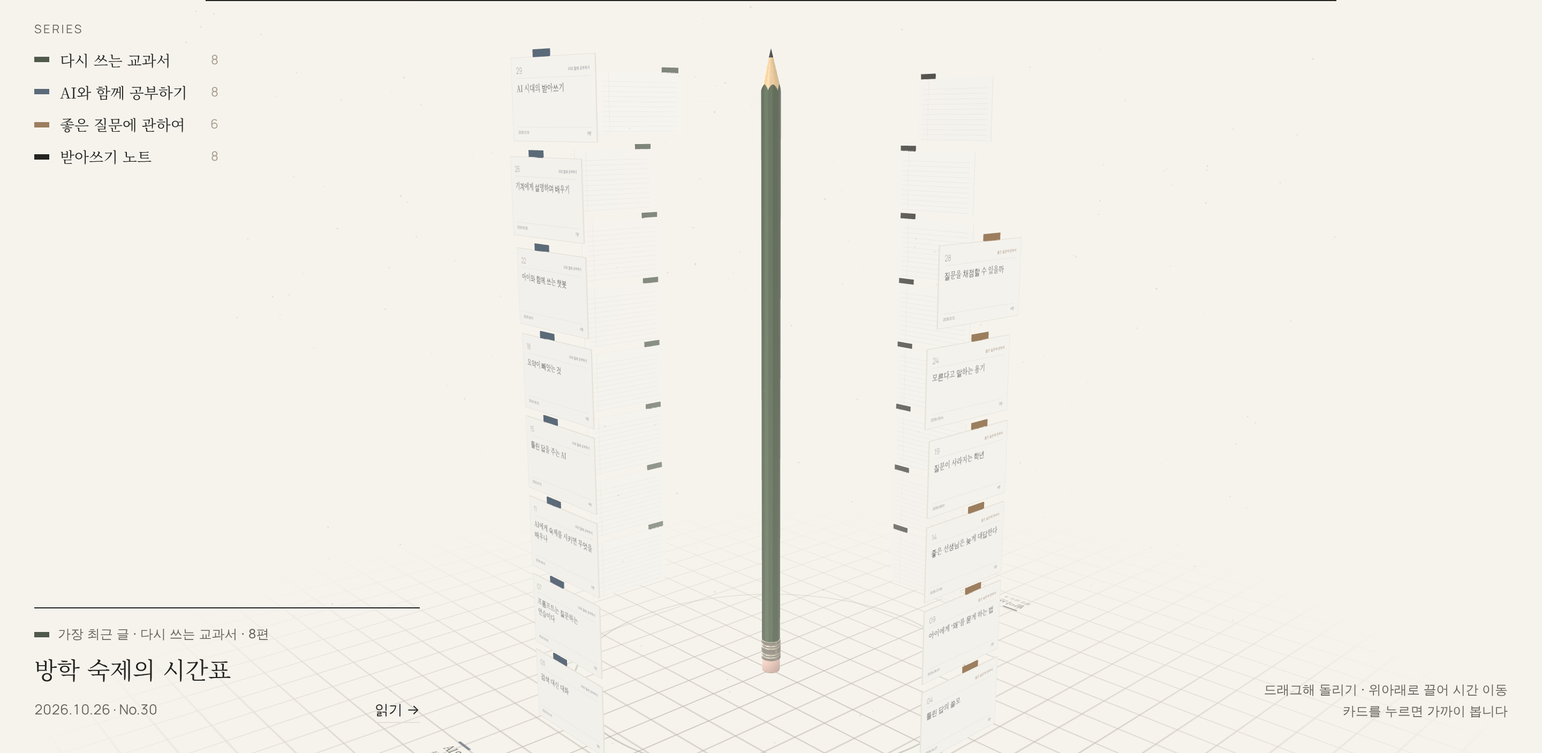
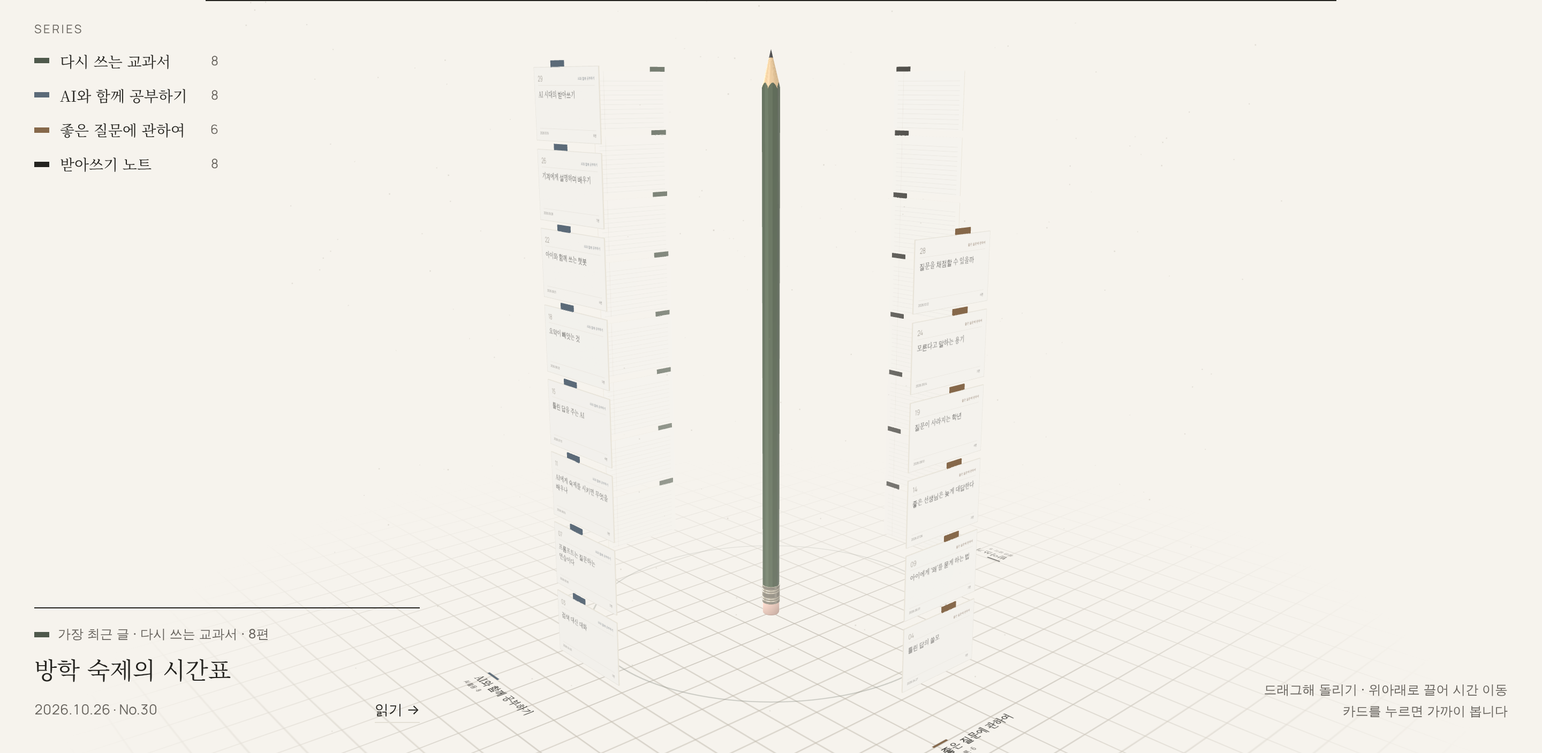
시안 D: 평가 1~5번 반영(실 정리, 짧은 연출, 시간 기반 움직임, 터치 영역, 대비)
Claude-Session: https://claude.ai/code/session_01MkK44uCViEpJkN2Hbai6tY

diff --git a/drafts/d-spiral.html b/drafts/d-spiral.html
@@ -47,7 +47,9 @@ nav { display: flex; gap: 24px; font: 400 13px/1 var(--latin); color: var(--capt
 .board-head h2 { font: 500 15px/1 var(--serif); }
 .board-head h2 span { font: 400 12px/1 var(--latin); letter-spacing: 0.16em; color: var(--caption); margin-left: 10px; }
 .modes { display: flex; gap: 20px; font-size: 13px; color: var(--caption); }
-.modes button { padding-bottom: 3px; border-bottom: 1px solid transparent; color: var(--caption); }
+.modes button { position: relative; padding-bottom: 3px; border-bottom: 1px solid transparent; color: var(--caption); }
+.modes button::after, .panel .row a::after, .board-foot summary::after { content: ""; position: absolute; inset: -10px -8px; } /* 보이는 크기는 그대로, 누르는 영역만 넓게 */
+.panel .row a, .board-foot summary { position: relative; }
 .modes button[aria-pressed="true"] { color: var(--ink); border-color: var(--ink); }
 
 .stage { position: relative; height: clamp(560px, 78vh, 760px); margin-top: 0; outline: none; }
@@ -57,9 +59,9 @@ nav { display: flex; gap: 24px; font: 400 13px/1 var(--latin); color: var(--capt
 
 .legend { position: absolute; top: 20px; left: max(32px, env(safe-area-inset-left, 0px)); display: grid; gap: 2px; z-index: 2; }
 .legend p { font: 400 11px/1 var(--latin); letter-spacing: 0.16em; color: var(--caption); margin-bottom: 8px; }
-.legend button { display: grid; grid-template-columns: 14px 1fr auto; align-items: center; gap: 10px; padding: 5px 0; text-align: left; font: 400 14px/1.3 var(--serif); color: var(--ink); transition: opacity .3s; }
+.legend button { display: grid; grid-template-columns: 14px 1fr auto; align-items: center; gap: 10px; padding: 6px 0; min-height: 28px; text-align: left; font: 400 14px/1.3 var(--serif); color: var(--ink); transition: opacity .3s; }
 .legend button i { width: 14px; height: 5px; display: block; }
-.legend button span { font: 400 12px/1 var(--latin); color: var(--taupe); margin-left: 12px; }
+.legend button span { font: 400 12px/1 var(--latin); color: var(--caption); margin-left: 12px; }
 .legend.filtered button[aria-pressed="false"] { opacity: .38; }
 
 .ruler { position: absolute; top: 9%; bottom: 13%; right: max(32px, env(safe-area-inset-right, 0px)); width: 64px; z-index: 2; cursor: ns-resize; touch-action: none; transition: opacity .5s; }
@@ -110,7 +112,8 @@ footer b { font-weight: 500; color: var(--ink); }
   .stage { height: 620px; }
   .legend { top: 12px; left: max(16px, env(safe-area-inset-left, 0px)); right: max(16px, env(safe-area-inset-right, 0px)); grid-template-columns: 1fr 1fr; column-gap: 16px; }
   .legend p { grid-column: 1 / -1; margin-bottom: 2px; }
-  .legend button { font-size: 12.5px; padding: 3px 0; grid-template-columns: 12px 1fr auto; gap: 6px; }
+  .legend button { font-size: 12.5px; padding: 0; min-height: 44px; grid-template-columns: 12px 1fr auto; gap: 6px; }
+  .modes button::after, .panel .row a::after, .board-foot summary::after { inset: -12px -10px; }
   .legend button span { margin-left: 4px; }
   .ruler { right: max(10px, env(safe-area-inset-right, 0px)); width: 44px; top: 24%; bottom: 34%; }
   .ruler .body { width: 18px; }
@@ -182,7 +185,7 @@ const C = { paper: '#F6F3ED', sheet: '#FBF9F4', linen: '#E4E0D6', taupe: '#A69D8
 const SERIES = [
   { name: '다시 쓰는 교과서', topic: '교육론', color: '#4F594C' },
   { name: 'AI와 함께 공부하기', topic: 'AI 활용', color: '#5B6A78' },
-  { name: '좋은 질문에 관하여', topic: '교육론', color: '#9C7E5E' },
+  { name: '좋은 질문에 관하여', topic: '교육론', color: '#86684A' },
   { name: '받아쓰기 노트', topic: '짧은 생각', color: '#24231F' },
 ];
 const RAW = [
@@ -269,7 +272,7 @@ function frontTexture(p) {
   for (let k = 0; k < 2200; k++) { g.fillStyle = `rgba(110,98,78,${rand() * 0.05})`; g.fillRect(rand() * w, rand() * h, 1 + rand() * 2.5, 1); }
   g.strokeStyle = C.linen; g.lineWidth = 3; g.strokeRect(1.5, 1.5, w - 3, h - 3);
   const s = SERIES[p.s];
-  g.fillStyle = C.taupe; g.font = '300 66px Manrope'; g.textBaseline = 'alphabetic';
+  g.fillStyle = '#857C6D'; g.font = '300 66px Manrope'; g.textBaseline = 'alphabetic'; // 큰 글자 대비 3:1 이상
   g.fillText(String(p.i + 1).padStart(2, '0'), 64, 124);
   g.fillStyle = s.color; g.font = '500 30px "Noto Serif KR"'; g.textAlign = 'right';
   g.fillText(s.name, w - 64, 112);
@@ -460,11 +463,16 @@ const plates = SERIES.map((s, k) => {
 /* ───────── 상태와 조작 ───────── */
 const ease = (t) => (t < 0.5 ? 4 * t * t * t : 1 - Math.pow(-2 * t + 2, 3) / 2);
 const clamp = (v, a = 0, b = 1) => Math.min(b, Math.max(a, v));
+// 화면 주사율과 무관한 감쇠: 60Hz에서 한 프레임에 k만큼 다가가던 움직임과 같은 빠르기
+const damp = (k, dt) => 1 - Math.pow(1 - k, dt * 60);
 const lerpAngle = (a, b, k) => { let d = ((b - a + Math.PI) % (Math.PI * 2) + Math.PI * 2) % (Math.PI * 2) - Math.PI; return a + d * k; };
-const MORPH_STAGGER = 0.022, MORPH_DUR = 1.15, MORPH_TOTAL = (N - 1) * MORPH_STAGGER + MORPH_DUR;
+const MORPH_STAGGER = 0.009, MORPH_DUR = 0.6, MORPH_TOTAL = (N - 1) * MORPH_STAGGER + MORPH_DUR;
+// 쌓이는 연출은 첫 방문에만. 다시 오면 바로 완성된 나선을 보여 준다.
+let seenBefore = false;
+try { seenBefore = localStorage.getItem('therefore-spiral-seen') === '1'; localStorage.setItem('therefore-spiral-seen', '1'); } catch (e) { /* 저장소를 쓸 수 없어도 그대로 동작 */ }
 const st = {
-  build: reduced ? N : 0, morphT: 0, mode: 0,
-  az: ((N - 1) * (Math.PI * 2 / TURN)) % (Math.PI * 2) - 0.25, azV: 0, azT: null, y: reduced ? TOP : 0, yT: TOP, elev: 0.13, dist: 12, baseDist: 12,
+  build: reduced || seenBefore ? N : 0, morphT: 0, mode: 0,
+  az: ((N - 1) * (Math.PI * 2 / TURN)) % (Math.PI * 2) - 0.25, azV: 0, azT: null, y: reduced || seenBefore ? TOP : 0, yT: TOP, elev: 0.13, dist: 12, baseDist: 12,
   cardScale: 1, hover: -1, sel: -1, filter: -1, dragging: false, lastInput: -1e9, visible: true,
 };
 
@@ -534,11 +542,12 @@ function pick(e) {
 }
 const cvs = renderer.domElement;
 let down = null;
-cvs.addEventListener('pointerdown', (e) => { down = { x: e.clientX, y: e.clientY, moved: 0, type: e.pointerType }; st.dragging = true; cvs.classList.add('grabbing'); cvs.setPointerCapture(e.pointerId); });
+cvs.addEventListener('pointerdown', (e) => { st.azV = 0; down = { x: e.clientX, y: e.clientY, moved: 0, type: e.pointerType, t: performance.now() }; st.dragging = true; cvs.classList.add('grabbing'); cvs.setPointerCapture(e.pointerId); });
 cvs.addEventListener('pointermove', (e) => {
   if (down) {
     const dx = e.clientX - down.x, dy = e.clientY - down.y; down.moved += Math.abs(dx) + Math.abs(dy);
-    st.azV = -dx * 0.0042; st.az += -dx * 0.0042; st.azT = null;
+    const tNow = performance.now(), vdt = Math.max(0.008, (tNow - down.t) / 1000); down.t = tNow;
+    st.azV = (-dx * 0.0042) / vdt; st.az += -dx * 0.0042; st.azT = null;
     if (down.type !== 'touch' && st.mode === 0) { st.yT = clamp(st.yT + dy * 0.012, 0, TOP); }
     down.x = e.clientX; down.y = e.clientY; st.lastInput = performance.now();
     return;
@@ -553,11 +562,12 @@ const release = (e) => {
 };
 cvs.addEventListener('pointerup', release);
 cvs.addEventListener('pointercancel', () => { down = null; st.dragging = false; cvs.classList.remove('grabbing'); });
-cvs.addEventListener('pointerleave', () => { if (!down) { st.hover = -1; cvs.classList.remove('pointing'); if (st.sel < 0) showPanel(null); } });
+cvs.addEventListener('pointerenter', (e) => { if (e.pointerType === 'mouse') st.over = true; });
+cvs.addEventListener('pointerleave', () => { st.over = false; if (!down) { st.hover = -1; cvs.classList.remove('pointing'); if (st.sel < 0) showPanel(null); } });
 stage.addEventListener('keydown', (e) => {
   if (e.key === 'ArrowUp' || e.key === 'ArrowDown') {
     e.preventDefault();
-    const cur = st.sel >= 0 ? st.sel : N;
+    const cur = st.sel >= 0 ? st.sel : (e.key === 'ArrowDown' ? N - 1 : N - 2);
     select(clamp(cur + (e.key === 'ArrowUp' ? 1 : -1), 0, N - 1));
   } else if (e.key === 'Escape') select(-1);
 });
@@ -571,21 +581,21 @@ function frame(now) {
   if (!st.visible) return;
 
   // 처음: 카드가 아래에서부터 한 장씩 쌓이고, 카메라와 연필심이 함께 올라간다.
-  if (st.build < N) { st.build = Math.min(N, st.build + dt * 9.5); st.yT = Math.max(0, (st.build - 1) * STEP); }
+  if (st.build < N) { st.build = Math.min(N, st.build + dt * 17); st.yT = Math.max(0, (st.build - 1) * STEP); }
   // 시간의 나선 ↔ 과목별 기둥
   if (!reduced) st.morphT = clamp(st.morphT + (st.mode ? dt : -dt), 0, MORPH_TOTAL);
   const mk = st.morphT / MORPH_TOTAL;
 
   // 카메라
   const idle = !st.dragging && now - st.lastInput > 2600;
-  if (st.azT !== null) st.az = lerpAngle(st.az, st.azT, 0.07);
-  else { st.az += st.azV; st.azV *= 0.92; if (idle && !reduced && st.sel < 0) st.az += dt * 0.07; }
+  if (st.azT !== null) st.az = lerpAngle(st.az, st.azT, damp(0.07, dt));
+  else if (!st.dragging) { st.az += st.azV * dt; st.azV *= Math.exp(-5 * dt); if (idle && !reduced && st.sel < 0 && !st.over) st.az += dt * 0.07; }
   if (st.mode === 1 && st.sel < 0) st.yT = 3.2;
-  st.y += (st.yT - st.y) * (reduced ? 1 : 0.07);
+  st.y += (st.yT - st.y) * (reduced ? 1 : damp(0.07, dt));
   const distT = st.baseDist + (st.mode ? 7 : 0) - (st.sel >= 0 ? 4.2 : 0);
-  st.dist += (distT - st.dist) * 0.06;
+  st.dist += (distT - st.dist) * damp(0.06, dt);
   const elevT = st.mode ? 0.24 : (st.sel >= 0 ? 0.05 : 0.2);
-  st.elev += (elevT - st.elev) * 0.06;
+  st.elev += (elevT - st.elev) * damp(0.06, dt);
   camera.position.set(Math.sin(st.az) * st.dist * Math.cos(st.elev), st.y + Math.sin(st.elev) * st.dist, Math.cos(st.az) * st.dist * Math.cos(st.elev));
   camera.lookAt(0, st.y - (st.mode || st.sel >= 0 ? 0 : 0.9), 0);
   scene.fog.near = st.dist - 2.5; scene.fog.far = st.dist + 11;
@@ -596,18 +606,18 @@ function frame(now) {
     const appear = ease(clamp(st.build - i));
     const k = ease(clamp((st.morphT - i * MORPH_STAGGER) / MORPH_DUR));
     const a = lerpAngle(c.a0, c.a1, k);
-    const r = THREE.MathUtils.lerp(R, RC, k) + Math.sin(k * Math.PI) * 1.1;
-    let y = THREE.MathUtils.lerp(c.y0, c.y1, k) + Math.sin(k * Math.PI) * 0.5 - (1 - appear) * 1.4;
+    const r = THREE.MathUtils.lerp(R, RC, k) + Math.sin(k * Math.PI) * 0.5;
+    let y = THREE.MathUtils.lerp(c.y0, c.y1, k) + Math.sin(k * Math.PI) * 0.2 - (1 - appear) * 1.0;
     const hv = (i === st.hover && !st.dragging) || i === st.sel ? 1 : 0;
-    c.hover += (hv - c.hover) * 0.16;
+    c.hover += (hv - c.hover) * damp(0.16, dt);
     const push = c.hover * (i === st.sel ? 0.55 : 0.3);
     c.group.position.set(Math.sin(a) * (r + push), y, Math.cos(a) * (r + push));
     c.group.rotation.set(0, 0, 0);
     c.group.rotation.y = a;
-    c.group.rotateX(-0.07 * (1 - k) + ease(k) * Math.PI * 2 * (st.mode ? 1 : -1) * (k > 0 && k < 1 ? 1 : 0));
+    c.group.rotateX(-0.07 * (1 - k) - Math.sin(k * Math.PI) * 0.45); // 옮겨 가는 동안만 살짝 젖혀진다
     c.group.scale.setScalar((1 + c.hover * 0.06) * st.cardScale);
     const target = (st.filter < 0 || st.filter === c.p.s ? 1 : 0.1) * appear;
-    c.op += (target - c.op) * 0.12;
+    c.op += (target - c.op) * damp(0.12, dt);
     for (const m of c.mats) { m.opacity = c.op; m.depthWrite = c.op > 0.95; }
     // 각도에 따른 옅은 음영: 정면일수록 밝고, 비스듬할수록 살짝 어둡다.
     c.group.getWorldDirection(nrm); dir.subVectors(camera.position, c.group.position).normalize();
@@ -619,7 +629,10 @@ function frame(now) {
     v3.set(Math.sin(a) * (r + push - 0.02), y, Math.cos(a) * (r + push - 0.02));
     tPos[ia] = v3.x; tPos[ia + 1] = v3.y; tPos[ia + 2] = v3.z;
     tPos[ia + 3] = Math.sin(a) * 0.14; tPos[ia + 4] = y; tPos[ia + 5] = Math.cos(a) * 0.14;
-    const al = c.op * 0.5 * (1 - k);
+    const focus = st.sel >= 0 ? st.sel : st.hover;
+    const tie = focus >= 0 ? (cards[focus].p.s === c.p.s ? (i === focus ? 0.75 : 0.4) : 0.02) : (st.filter >= 0 ? (st.filter === c.p.s ? 0.35 : 0) : 0.07);
+    c.tie = (c.tie ?? 0.07) + (tie - (c.tie ?? 0.07)) * damp(0.12, dt);
+    const al = c.op * c.tie * (1 - k);
     for (const o of [0, 4]) { tCol[i * 8 + o] = taupe.r; tCol[i * 8 + o + 1] = taupe.g; tCol[i * 8 + o + 2] = taupe.b; tCol[i * 8 + o + 3] = al; }
   });
   threadGeo.attributes.position.needsUpdate = true; threadGeo.attributes.color.needsUpdate = true;

diff --git a/drafts/d-spiral.local.html b/drafts/d-spiral.local.html
@@ -49,7 +49,9 @@ nav { display: flex; gap: 24px; font: 400 13px/1 var(--latin); color: var(--capt
 .board-head h2 { font: 500 15px/1 var(--serif); }
 .board-head h2 span { font: 400 12px/1 var(--latin); letter-spacing: 0.16em; color: var(--caption); margin-left: 10px; }
 .modes { display: flex; gap: 20px; font-size: 13px; color: var(--caption); }
-.modes button { padding-bottom: 3px; border-bottom: 1px solid transparent; color: var(--caption); }
+.modes button { position: relative; padding-bottom: 3px; border-bottom: 1px solid transparent; color: var(--caption); }
+.modes button::after, .panel .row a::after, .board-foot summary::after { content: ""; position: absolute; inset: -10px -8px; } /* 보이는 크기는 그대로, 누르는 영역만 넓게 */
+.panel .row a, .board-foot summary { position: relative; }
 .modes button[aria-pressed="true"] { color: var(--ink); border-color: var(--ink); }
 
 .stage { position: relative; height: clamp(560px, 78vh, 760px); margin-top: 0; outline: none; }
@@ -59,9 +61,9 @@ nav { display: flex; gap: 24px; font: 400 13px/1 var(--latin); color: var(--capt
 
 .legend { position: absolute; top: 20px; left: max(32px, env(safe-area-inset-left, 0px)); display: grid; gap: 2px; z-index: 2; }
 .legend p { font: 400 11px/1 var(--latin); letter-spacing: 0.16em; color: var(--caption); margin-bottom: 8px; }
-.legend button { display: grid; grid-template-columns: 14px 1fr auto; align-items: center; gap: 10px; padding: 5px 0; text-align: left; font: 400 14px/1.3 var(--serif); color: var(--ink); transition: opacity .3s; }
+.legend button { display: grid; grid-template-columns: 14px 1fr auto; align-items: center; gap: 10px; padding: 6px 0; min-height: 28px; text-align: left; font: 400 14px/1.3 var(--serif); color: var(--ink); transition: opacity .3s; }
 .legend button i { width: 14px; height: 5px; display: block; }
-.legend button span { font: 400 12px/1 var(--latin); color: var(--taupe); margin-left: 12px; }
+.legend button span { font: 400 12px/1 var(--latin); color: var(--caption); margin-left: 12px; }
 .legend.filtered button[aria-pressed="false"] { opacity: .38; }
 
 .ruler { position: absolute; top: 9%; bottom: 13%; right: max(32px, env(safe-area-inset-right, 0px)); width: 64px; z-index: 2; cursor: ns-resize; touch-action: none; transition: opacity .5s; }
@@ -112,7 +114,8 @@ footer b { font-weight: 500; color: var(--ink); }
   .stage { height: 620px; }
   .legend { top: 12px; left: max(16px, env(safe-area-inset-left, 0px)); right: max(16px, env(safe-area-inset-right, 0px)); grid-template-columns: 1fr 1fr; column-gap: 16px; }
   .legend p { grid-column: 1 / -1; margin-bottom: 2px; }
-  .legend button { font-size: 12.5px; padding: 3px 0; grid-template-columns: 12px 1fr auto; gap: 6px; }
+  .legend button { font-size: 12.5px; padding: 0; min-height: 44px; grid-template-columns: 12px 1fr auto; gap: 6px; }
+  .modes button::after, .panel .row a::after, .board-foot summary::after { inset: -12px -10px; }
   .legend button span { margin-left: 4px; }
   .ruler { right: max(10px, env(safe-area-inset-right, 0px)); width: 44px; top: 24%; bottom: 34%; }
   .ruler .body { width: 18px; }
@@ -184,7 +187,7 @@ const C = { paper: '#F6F3ED', sheet: '#FBF9F4', linen: '#E4E0D6', taupe: '#A69D8
 const SERIES = [
   { name: '다시 쓰는 교과서', topic: '교육론', color: '#4F594C' },
   { name: 'AI와 함께 공부하기', topic: 'AI 활용', color: '#5B6A78' },
-  { name: '좋은 질문에 관하여', topic: '교육론', color: '#9C7E5E' },
+  { name: '좋은 질문에 관하여', topic: '교육론', color: '#86684A' },
   { name: '받아쓰기 노트', topic: '짧은 생각', color: '#24231F' },
 ];
 const RAW = [
@@ -271,7 +274,7 @@ function frontTexture(p) {
   for (let k = 0; k < 2200; k++) { g.fillStyle = `rgba(110,98,78,${rand() * 0.05})`; g.fillRect(rand() * w, rand() * h, 1 + rand() * 2.5, 1); }
   g.strokeStyle = C.linen; g.lineWidth = 3; g.strokeRect(1.5, 1.5, w - 3, h - 3);
   const s = SERIES[p.s];
-  g.fillStyle = C.taupe; g.font = '300 66px Manrope'; g.textBaseline = 'alphabetic';
+  g.fillStyle = '#857C6D'; g.font = '300 66px Manrope'; g.textBaseline = 'alphabetic'; // 큰 글자 대비 3:1 이상
   g.fillText(String(p.i + 1).padStart(2, '0'), 64, 124);
   g.fillStyle = s.color; g.font = '500 30px "Noto Serif KR"'; g.textAlign = 'right';
   g.fillText(s.name, w - 64, 112);
@@ -462,11 +465,16 @@ const plates = SERIES.map((s, k) => {
 /* ───────── 상태와 조작 ───────── */
 const ease = (t) => (t < 0.5 ? 4 * t * t * t : 1 - Math.pow(-2 * t + 2, 3) / 2);
 const clamp = (v, a = 0, b = 1) => Math.min(b, Math.max(a, v));
+// 화면 주사율과 무관한 감쇠: 60Hz에서 한 프레임에 k만큼 다가가던 움직임과 같은 빠르기
+const damp = (k, dt) => 1 - Math.pow(1 - k, dt * 60);
 const lerpAngle = (a, b, k) => { let d = ((b - a + Math.PI) % (Math.PI * 2) + Math.PI * 2) % (Math.PI * 2) - Math.PI; return a + d * k; };
-const MORPH_STAGGER = 0.022, MORPH_DUR = 1.15, MORPH_TOTAL = (N - 1) * MORPH_STAGGER + MORPH_DUR;
+const MORPH_STAGGER = 0.009, MORPH_DUR = 0.6, MORPH_TOTAL = (N - 1) * MORPH_STAGGER + MORPH_DUR;
+// 쌓이는 연출은 첫 방문에만. 다시 오면 바로 완성된 나선을 보여 준다.
+let seenBefore = false;
+try { seenBefore = localStorage.getItem('therefore-spiral-seen') === '1'; localStorage.setItem('therefore-spiral-seen', '1'); } catch (e) { /* 저장소를 쓸 수 없어도 그대로 동작 */ }
 const st = {
-  build: reduced ? N : 0, morphT: 0, mode: 0,
-  az: ((N - 1) * (Math.PI * 2 / TURN)) % (Math.PI * 2) - 0.25, azV: 0, azT: null, y: reduced ? TOP : 0, yT: TOP, elev: 0.13, dist: 12, baseDist: 12,
+  build: reduced || seenBefore ? N : 0, morphT: 0, mode: 0,
+  az: ((N - 1) * (Math.PI * 2 / TURN)) % (Math.PI * 2) - 0.25, azV: 0, azT: null, y: reduced || seenBefore ? TOP : 0, yT: TOP, elev: 0.13, dist: 12, baseDist: 12,
   cardScale: 1, hover: -1, sel: -1, filter: -1, dragging: false, lastInput: -1e9, visible: true,
 };
 
@@ -536,11 +544,12 @@ function pick(e) {
 }
 const cvs = renderer.domElement;
 let down = null;
-cvs.addEventListener('pointerdown', (e) => { down = { x: e.clientX, y: e.clientY, moved: 0, type: e.pointerType }; st.dragging = true; cvs.classList.add('grabbing'); cvs.setPointerCapture(e.pointerId); });
+cvs.addEventListener('pointerdown', (e) => { st.azV = 0; down = { x: e.clientX, y: e.clientY, moved: 0, type: e.pointerType, t: performance.now() }; st.dragging = true; cvs.classList.add('grabbing'); cvs.setPointerCapture(e.pointerId); });
 cvs.addEventListener('pointermove', (e) => {
   if (down) {
     const dx = e.clientX - down.x, dy = e.clientY - down.y; down.moved += Math.abs(dx) + Math.abs(dy);
-    st.azV = -dx * 0.0042; st.az += -dx * 0.0042; st.azT = null;
+    const tNow = performance.now(), vdt = Math.max(0.008, (tNow - down.t) / 1000); down.t = tNow;
+    st.azV = (-dx * 0.0042) / vdt; st.az += -dx * 0.0042; st.azT = null;
     if (down.type !== 'touch' && st.mode === 0) { st.yT = clamp(st.yT + dy * 0.012, 0, TOP); }
     down.x = e.clientX; down.y = e.clientY; st.lastInput = performance.now();
     return;
@@ -555,11 +564,12 @@ const release = (e) => {
 };
 cvs.addEventListener('pointerup', release);
 cvs.addEventListener('pointercancel', () => { down = null; st.dragging = false; cvs.classList.remove('grabbing'); });
-cvs.addEventListener('pointerleave', () => { if (!down) { st.hover = -1; cvs.classList.remove('pointing'); if (st.sel < 0) showPanel(null); } });
+cvs.addEventListener('pointerenter', (e) => { if (e.pointerType === 'mouse') st.over = true; });
+cvs.addEventListener('pointerleave', () => { st.over = false; if (!down) { st.hover = -1; cvs.classList.remove('pointing'); if (st.sel < 0) showPanel(null); } });
 stage.addEventListener('keydown', (e) => {
   if (e.key === 'ArrowUp' || e.key === 'ArrowDown') {
     e.preventDefault();
-    const cur = st.sel >= 0 ? st.sel : N;
+    const cur = st.sel >= 0 ? st.sel : (e.key === 'ArrowDown' ? N - 1 : N - 2);
     select(clamp(cur + (e.key === 'ArrowUp' ? 1 : -1), 0, N - 1));
   } else if (e.key === 'Escape') select(-1);
 });
@@ -573,21 +583,21 @@ function frame(now) {
   if (!st.visible) return;
 
   // 처음: 카드가 아래에서부터 한 장씩 쌓이고, 카메라와 연필심이 함께 올라간다.
-  if (st.build < N) { st.build = Math.min(N, st.build + dt * 9.5); st.yT = Math.max(0, (st.build - 1) * STEP); }
+  if (st.build < N) { st.build = Math.min(N, st.build + dt * 17); st.yT = Math.max(0, (st.build - 1) * STEP); }
   // 시간의 나선 ↔ 과목별 기둥
   if (!reduced) st.morphT = clamp(st.morphT + (st.mode ? dt : -dt), 0, MORPH_TOTAL);
   const mk = st.morphT / MORPH_TOTAL;
 
   // 카메라
   const idle = !st.dragging && now - st.lastInput > 2600;
-  if (st.azT !== null) st.az = lerpAngle(st.az, st.azT, 0.07);
-  else { st.az += st.azV; st.azV *= 0.92; if (idle && !reduced && st.sel < 0) st.az += dt * 0.07; }
+  if (st.azT !== null) st.az = lerpAngle(st.az, st.azT, damp(0.07, dt));
+  else if (!st.dragging) { st.az += st.azV * dt; st.azV *= Math.exp(-5 * dt); if (idle && !reduced && st.sel < 0 && !st.over) st.az += dt * 0.07; }
   if (st.mode === 1 && st.sel < 0) st.yT = 3.2;
-  st.y += (st.yT - st.y) * (reduced ? 1 : 0.07);
+  st.y += (st.yT - st.y) * (reduced ? 1 : damp(0.07, dt));
   const distT = st.baseDist + (st.mode ? 7 : 0) - (st.sel >= 0 ? 4.2 : 0);
-  st.dist += (distT - st.dist) * 0.06;
+  st.dist += (distT - st.dist) * damp(0.06, dt);
   const elevT = st.mode ? 0.24 : (st.sel >= 0 ? 0.05 : 0.2);
-  st.elev += (elevT - st.elev) * 0.06;
+  st.elev += (elevT - st.elev) * damp(0.06, dt);
   camera.position.set(Math.sin(st.az) * st.dist * Math.cos(st.elev), st.y + Math.sin(st.elev) * st.dist, Math.cos(st.az) * st.dist * Math.cos(st.elev));
   camera.lookAt(0, st.y - (st.mode || st.sel >= 0 ? 0 : 0.9), 0);
   scene.fog.near = st.dist - 2.5; scene.fog.far = st.dist + 11;
@@ -598,18 +608,18 @@ function frame(now) {
     const appear = ease(clamp(st.build - i));
     const k = ease(clamp((st.morphT - i * MORPH_STAGGER) / MORPH_DUR));
     const a = lerpAngle(c.a0, c.a1, k);
-    const r = THREE.MathUtils.lerp(R, RC, k) + Math.sin(k * Math.PI) * 1.1;
-    let y = THREE.MathUtils.lerp(c.y0, c.y1, k) + Math.sin(k * Math.PI) * 0.5 - (1 - appear) * 1.4;
+    const r = THREE.MathUtils.lerp(R, RC, k) + Math.sin(k * Math.PI) * 0.5;
+    let y = THREE.MathUtils.lerp(c.y0, c.y1, k) + Math.sin(k * Math.PI) * 0.2 - (1 - appear) * 1.0;
     const hv = (i === st.hover && !st.dragging) || i === st.sel ? 1 : 0;
-    c.hover += (hv - c.hover) * 0.16;
+    c.hover += (hv - c.hover) * damp(0.16, dt);
     const push = c.hover * (i === st.sel ? 0.55 : 0.3);
     c.group.position.set(Math.sin(a) * (r + push), y, Math.cos(a) * (r + push));
     c.group.rotation.set(0, 0, 0);
     c.group.rotation.y = a;
-    c.group.rotateX(-0.07 * (1 - k) + ease(k) * Math.PI * 2 * (st.mode ? 1 : -1) * (k > 0 && k < 1 ? 1 : 0));
+    c.group.rotateX(-0.07 * (1 - k) - Math.sin(k * Math.PI) * 0.45); // 옮겨 가는 동안만 살짝 젖혀진다
     c.group.scale.setScalar((1 + c.hover * 0.06) * st.cardScale);
     const target = (st.filter < 0 || st.filter === c.p.s ? 1 : 0.1) * appear;
-    c.op += (target - c.op) * 0.12;
+    c.op += (target - c.op) * damp(0.12, dt);
     for (const m of c.mats) { m.opacity = c.op; m.depthWrite = c.op > 0.95; }
     // 각도에 따른 옅은 음영: 정면일수록 밝고, 비스듬할수록 살짝 어둡다.
     c.group.getWorldDirection(nrm); dir.subVectors(camera.position, c.group.position).normalize();
@@ -621,7 +631,10 @@ function frame(now) {
     v3.set(Math.sin(a) * (r + push - 0.02), y, Math.cos(a) * (r + push - 0.02));
     tPos[ia] = v3.x; tPos[ia + 1] = v3.y; tPos[ia + 2] = v3.z;
     tPos[ia + 3] = Math.sin(a) * 0.14; tPos[ia + 4] = y; tPos[ia + 5] = Math.cos(a) * 0.14;
-    const al = c.op * 0.5 * (1 - k);
+    const focus = st.sel >= 0 ? st.sel : st.hover;
+    const tie = focus >= 0 ? (cards[focus].p.s === c.p.s ? (i === focus ? 0.75 : 0.4) : 0.02) : (st.filter >= 0 ? (st.filter === c.p.s ? 0.35 : 0) : 0.07);
+    c.tie = (c.tie ?? 0.07) + (tie - (c.tie ?? 0.07)) * damp(0.12, dt);
+    const al = c.op * c.tie * (1 - k);
     for (const o of [0, 4]) { tCol[i * 8 + o] = taupe.r; tCol[i * 8 + o + 1] = taupe.g; tCol[i * 8 + o + 2] = taupe.b; tCol[i * 8 + o + 3] = al; }
   });
   threadGeo.attributes.position.needsUpdate = true; threadGeo.attributes.color.needsUpdate = true;

diff --git a/docs/REVIEW-2026-11-19.md b/docs/REVIEW-2026-11-19.md
@@ -56,3 +56,16 @@
 ## 다음 작업 제안
 
 1~5를 먼저 고치고(30분~1시간 분량), 6~10은 실제 Astro 사이트로 옮길 때 함께 정리한다.
+
+## 반영 결과 (같은 날, 1~5번)
+
+| # | 조치 | 확인 |
+|---|---|---|
+| 1 | 실은 평소 거의 투명(0.07). 카드를 올리거나 고르면 같은 시리즈의 실만 보인다(고른 카드 0.75, 같은 시리즈 0.4). 범례로 걸러 보면 그 시리즈만 | 스크린샷에서 거미줄 사라짐 |
+| 2 | 쌓이는 연출은 첫 방문에만(브라우저 저장소에 표시, 못 쓰면 매번 연출), 속도 1.8초로 단축. 기둥 전환은 360° 뒤집기 대신 옮겨 가는 동안 살짝 젖혀지기, 전체 약 0.9초. 중간에 다시 누르면 그 자리에서 되돌아감 | 코드 확인 |
+| 3 | 카메라·호버·투명도 보간을 경과 시간 기반으로(`1-(1-k)^(dt·60)`). 드래그 관성도 초당 속도로 바꿈 | 코드 확인 |
+| 4 | 누르는 영역: 모바일 범례 44px, 보기 전환 48px, '읽기' 45px, '목록으로 보기' 45px. 데스크톱 범례 28px | Playwright `elementFromPoint`로 실측 |
+| 5 | 범례 편수 caption 색(5.23:1), 카드 번호 #857C6D(3.91:1, 66px 큰 글자 기준 통과), '좋은 질문에 관하여' #86684A(4.88:1) | 대비 계산 |
+
+함께 고친 것: 마우스가 무대 위에 있으면 자동 회전 멈춤(8번), 첫 ↓ 키가 바로 이전 글로 감(10번).
+남은 것: 6 텍스처 메모리, 7 화면 읽기 소음, 9 모바일 위계(연필이 가운데를 크게 차지).
